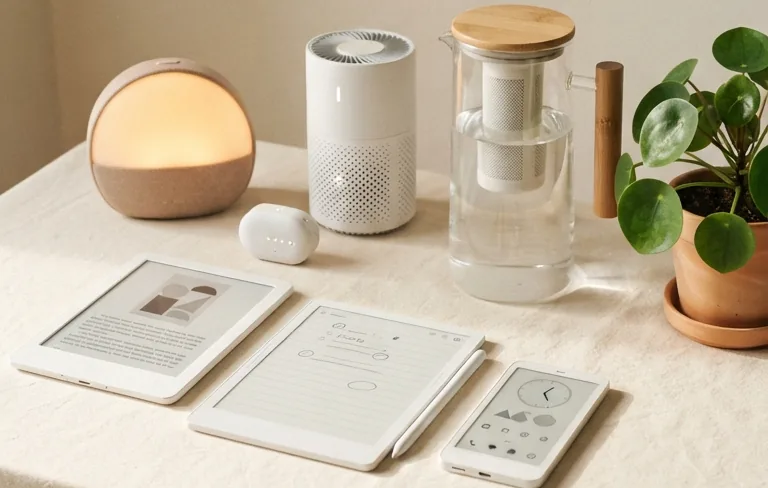
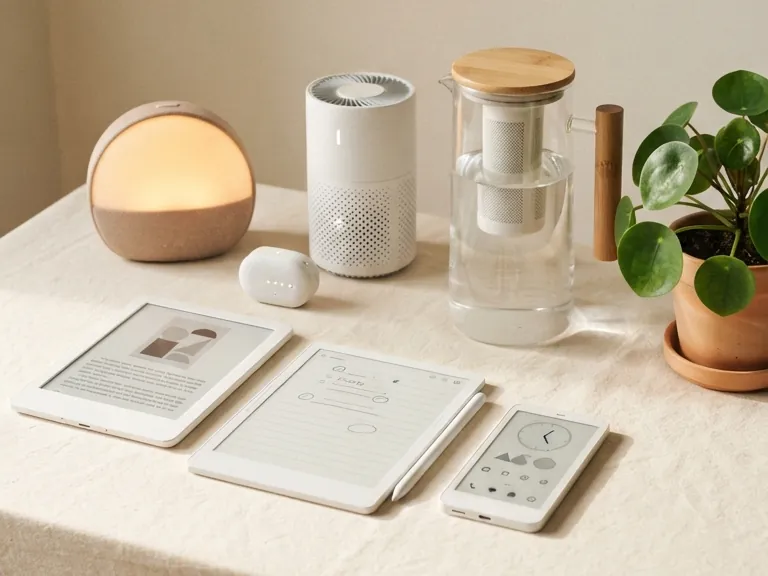
Kafelek „Technologia dla zdrowia”: powrót do kadru 4:3

diff --git a/pl/index.html b/pl/index.html
@@ -585,7 +585,7 @@
             <div class="wfp3__flow" data-start="1" tabindex="0" aria-label="Programy Fundacji — przesuń, aby wybrać">
               <a class="wfp3__card is-soon" role="button" style="--i:0" aria-label="Technologia dla zdrowia — w przygotowaniu">
                 <span class="wfp3__in">
-                  <span class="wfp3__img"><img src="../images/banery/technologia-zdrowie.webp?v=2" width="768" height="488" loading="lazy" decoding="async" alt="Czytnik e-booków, notatnik e-ink, telefon z e-papierem, dzbanek z filtrem do wody, oczyszczacz powietrza i budzik ze światłem świtu"><span class="wfp3__badge wfp3__badge--soon">Wkrótce</span></span>
+                  <span class="wfp3__img"><img src="../images/banery/technologia-zdrowie.webp?v=3" width="768" height="576" loading="lazy" decoding="async" alt="Czytnik e-booków, notatnik e-ink, telefon z e-papierem, dzbanek z filtrem do wody, oczyszczacz powietrza i budzik ze światłem świtu"><span class="wfp3__badge wfp3__badge--soon">Wkrótce</span></span>
                   <span class="wfp3__text"><span class="wfp3__name">Technologia dla zdrowia</span><span class="wfp3__hint">co zamienić na co, żeby technologia nie szkodziła</span><span class="wfp3__go">W przygotowaniu</span></span>
                 </span>
               </a>
